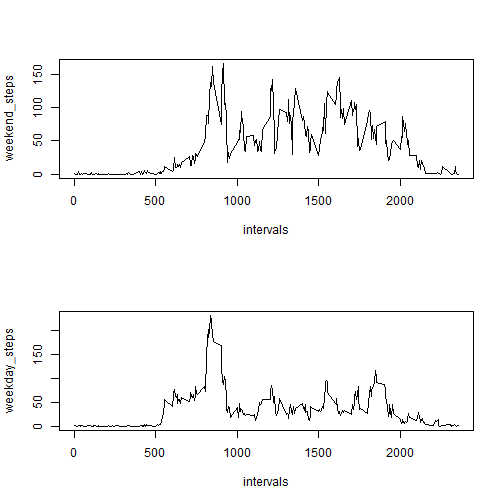
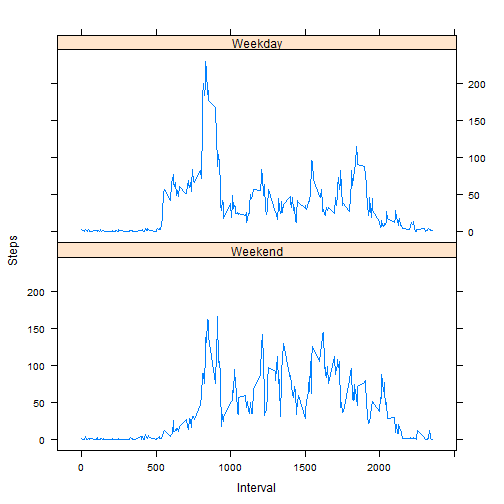
Changed from base plot to lattice for final graph

diff --git a/PA1_template.html b/PA1_template.html
@@ -423,12 +423,16 @@ weekend_steps &lt;- sapply(intervals, int_steps_end)
 weekday_steps &lt;- sapply(intervals, int_steps_day)
 </code></pre>
 
-<pre><code class="r">par(mfrow = c(2,1))
-plot(intervals, weekend_steps, type = &quot;l&quot;)
-plot(intervals, weekday_steps, type = &quot;l&quot;)
+<pre><code class="r">library(lattice)
+WEEKEND &lt;- data.frame(&quot;Date&quot; = &quot;Weekend&quot;, &quot;Steps&quot; = weekend_steps, &quot;Interval&quot; = intervals)
+WEEKDAY &lt;- data.frame(&quot;Date&quot; = &quot;Weekday&quot;, &quot;Steps&quot; = weekday_steps, &quot;Interval&quot; = intervals)
+WEEK &lt;- rbind(WEEKEND, WEEKDAY)
+xyplot(Steps~Interval | Date, data = WEEK, layout = c(1,2), panel = function(x, y, ...){
+        panel.lines(x, y, ...)
+})
 </code></pre>
 
[2 lines of base64/hex data omitted]
 
 </body>
 

diff --git a/PA1_template.md b/PA1_template.md
@@ -244,9 +244,13 @@ weekday_steps <- sapply(intervals, int_steps_day)
 ```
 
 ```r
-par(mfrow = c(2,1))
-plot(intervals, weekend_steps, type = "l")
-plot(intervals, weekday_steps, type = "l")
+library(lattice)
+WEEKEND <- data.frame("Date" = "Weekend", "Steps" = weekend_steps, "Interval" = intervals)
+WEEKDAY <- data.frame("Date" = "Weekday", "Steps" = weekday_steps, "Interval" = intervals)
+WEEK <- rbind(WEEKEND, WEEKDAY)
+xyplot(Steps~Interval | Date, data = WEEK, layout = c(1,2), panel = function(x, y, ...){
+        panel.lines(x, y, ...)
+})
 ```
 
 ![plot of chunk unnamed-chunk-16](figure/unnamed-chunk-16-1.png) 
